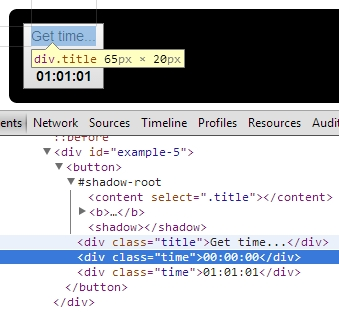
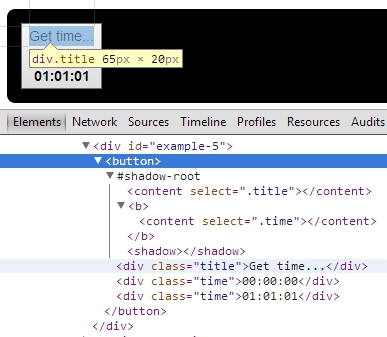
[post] update content

diff --git a/_posts/2014-02-18-frontend.web-components.md b/_posts/2014-02-18-frontend.web-components.md
@@ -200,22 +200,22 @@
 Отладка:
 {: .h4 }
 
-* после однократного нажатия кнопки происходит создание *ShadowRoot*, отображение изначального контента ноды ("Get time...") заменяется на контент *ShadowRoot*
-* следующее нажатие кнопки создает еще один *ShadowRoot* для той же ноды (*host*-ноды), после чего отображается контент самого свежего ShadowRoot
+* в терминологии *Web Components* нода, для которой создается *ShadowRoot*, называется *host*-нодой (в примере ссылка на эту ноду сохранена в переменной `host`)
+* после однократного нажатия кнопки происходит создание *ShadowRoot*, при этом происходит изменение отображения *host*-ноды - вместо изначального контента *host*-ноды ("Get time...") выводится *ShadowRoot*
+* следующее нажатие кнопки создает еще один *ShadowRoot* для той же ноды (*host*-ноды), после чего отображается контент самого свежего *ShadowRoot*
 
 ![](/assets/posts/2014-02-19/example.2-1.jpg)
 ![](/assets/posts/2014-02-19/example.2-2.jpg)
 ![](/assets/posts/2014-02-19/example.2-3.jpg)
 {: .screenshot }
 
-* нода для которой создается *ShadowRoot* называется *host* (в примере ссылка на эту ноду сохранена в переменной `host`)
 * ссылка на текущий (самый свежий) *ShadowRoot* host-ноды содержится в `host.shadowRoot` и, соответственно, в ShadowRoot есть ссылка на host-ноду `root.host`
 * кроме того, в более свежем *ShadowRoot* есть ссылка на предыдущий `root.olderShadowRoot` (если таковой существует)
 
 
-## Курсоры (Insertion points)
+## Точки вставки (Insertion points)
 
-### Курсор `<content />`
+### Точка `<content />`
 
 В предыдущем примере при создании ShadowRoot теряется контент *host*-ноды.  
 Научим кнопку его использовать.
@@ -274,8 +274,8 @@
 ></script>
 {: .example }
 
-Для использования контента *host*-ноды в ее *ShadowRoot* задан *insertion point* (*курсор*) `<content />`.  
-Курсор не меняет DOM-дерево *host*-ноды, а задает правила его отрисовки в *ShadowRoot*.
+Для использования контента *host*-ноды в ее *ShadowRoot* задана *insertion point* (*точка вставки*) при помощи тега `<content />`.  
+*Точка вставки* не меняет DOM-дерево *host*-ноды, а задает правила его вставки в *ShadowRoot*.
 
 
 
@@ -286,34 +286,44 @@
 {: .screenshot }
 
 
-### Курсор `<shadow />`
+### Аттрибут `select` точки `<content />`
 
-При каждом нажатии кнопки создается новый *ShadowRoot*. Как упоминалось выше *host*-нода отображает контент только самого свежего *ShadowRoot*, хотя их может быть несколько.
-Для гибкого использования нескольких *ShadowRoot* можно определить *insertion point* `<shadow />`.
-
+Для *insertion point* `<content />` предусмотрен аттрибут *select*, значением которого являет список простых селекторов, разделенный запятыми.  
+Аттрибут предоставляет возможность выбора части контента *host*-ноды для указания ее места в *ShadowRoot*.  
+В предыдущем примере использовалась точка `<content></content>`, что равнозначно `<content select=""></content>` или `<content select="*"></content>` - т.е. происходит выбор всего контента *host*-ноды.  
+Применим атибут *select* для вывода предустановленных значений элемента (не js-хардкодом, а гибко - в верстке).  
 
 Код:
 {: .h4}
 
 ~~~html
 <div id="example-4" markdown="0">
-   <button>Get time...</button>
+   <button>
+        <div class="title">Get time...</div>
+        <div class="time">00:00:00</div>
+        <div class="time">01:01:01</div>
+    </button>
 </div>
 <script>
 (function(){
-    var host = document.querySelector('#example-4 > button');
+    var host = document.querySelector('#example-4 > button'),
+        root = host.createShadowRoot();
+    root.innerHTML =
+            '<content select=".title"></content>'+
+            '<b><content select=".time"></content></b>'+
+            '<shadow></shadow>';
     host.onclick = function(){
        var dt = new Date(),
-           root = this.createShadowRoot();
-       root.innerHTML =
-            '<content></content><br/>'+
+           r = this.createShadowRoot();
+       r.innerHTML =
+            '<shadow></shadow>'+
             '<b>'+
             [ dt.getHours(),
               dt.getMinutes(),
               dt.getSeconds() ].map(function(i){ return ('00'+i).substr(-2); })
                                .join(':')+
-            '</b>&nbsp;'+
-            '<shadow></shadow>';
+            '</b>'+
+            '<br />';
        };
 })();
 </script>
@@ -324,23 +334,28 @@
 {: .h4}
 
 ><div id="example-4" markdown="0">
->   <button>Get time...</button>
+>   <button>
+>        <div class="title">Get time...</div>
+>        <div class="time">00:00:00</div>
+>        <div class="time">01:01:01</div>
+>    </button>
 ></div>
 ><script>
 >(function(){
 >    var host = document.querySelector('#example-4 > button');
 >    host.onclick = function(){
 >       var dt = new Date(),
->           root = this.createShadowRoot();
->       root.innerHTML =
->            '<content></content>'+
->            '<shadow></shadow>'+
->            '<br/><b>'+
+>           r = this.createShadowRoot();
+>       r.innerHTML =
+>            '<content select=".title"></content>'+
+>            '<b><content select=".time"></content></b>'+
+>            '<b>'+
 >            [ dt.getHours(),
 >              dt.getMinutes(),
 >              dt.getSeconds() ].map(function(i){ return ('00'+i).substr(-2); })
 >                               .join(':')+
->            '</b>';
+>            '</b>'+
+>            '<br />';
 >       };
 >})();
 ></script>
@@ -350,16 +365,15 @@
 Отладка:
 {: .h4}
 
-![](/assets/posts/2014-02-19/example.4.jpg)
+![](/assets/posts/2014-02-19/example.4-1.jpg)
+![](/assets/posts/2014-02-19/example.4-2.jpg)
 {: .screenshot }
 
-### Курсор `<content />`. Аттрибут `select`
+### Точка `<shadow />`
 
-Для *insertion point* `<content />` предусмотрен аттрибут *select*, значением которого являет список простых css-селекторов, разделенный запятыми.  
-Аттрибут предоставляет возможность выбора части контента *host*-ноды для указания ее места в *ShadowRoot*.  
-В предыдущих примерах уже использовался курсор `<content></content>`, что равнозначно `<content select=""></content>` или `<content select="*"></content>` - т.е. происходит выбор всего контента *host*-ноды.  
-Следующий пример использует эту возможность.  
-Научим элемент корректно обрабатывать предустановленные значения (не js-хардкодом, а гибко - в верстке).  
+При каждом нажатии кнопки создается новый *ShadowRoot*. Как упоминалось выше *host*-нода отображает контент только самого свежего *ShadowRoot*, хотя их может быть несколько.
+Для гибкого использования нескольких *ShadowRoot* можно определить *insertion point* `<shadow />`.
+
 
 Код:
 {: .h4}
@@ -440,6 +454,7 @@
 ![](/assets/posts/2014-02-19/example.5-1.jpg)
 ![](/assets/posts/2014-02-19/example.5-2.jpg)
 {: .screenshot }
+
 
 Источники:
 {: .h4}
